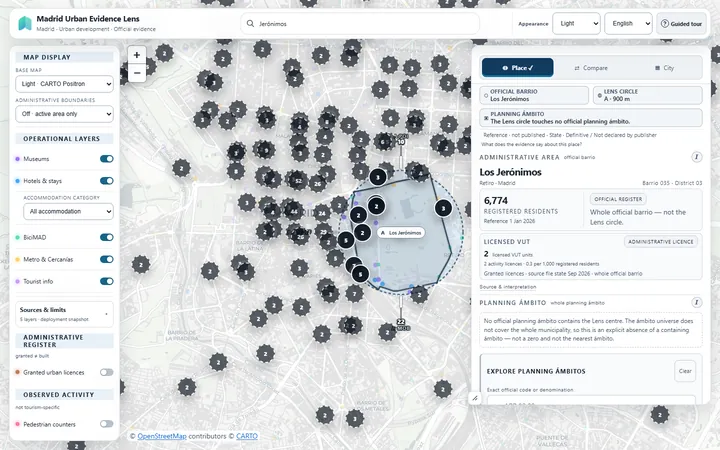
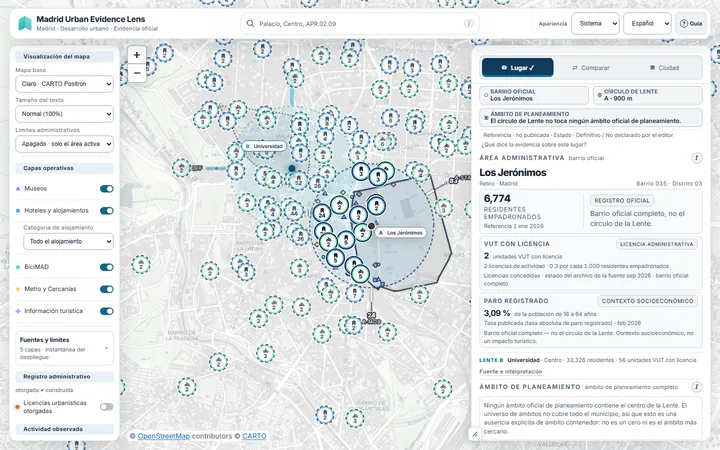
Discover V3: recapture current map, remove white gap in hero image, add colour layer
Hero, PLACE, COMPARE and CITY images recaptured from the deployed app
(4 Nov 2026, CARTO Positron, Spanish UI); hero crop lies fully inside the
map canvas. Captions, dates and aperture ring updated; SOURCES.md records
the new provenance. Colour layer: gradients, tinted sections, coloured plate
frames; gradient buttons keep a solid background-color for contrast checks.

diff --git a/discover/index.html b/discover/index.html
@@ -17,6 +17,7 @@
       color-scheme:light;
       --paper:#f4f1ea;--paper-deep:#ebe6da;--card:#fbfaf6;
       --ink:#16191e;--ink-soft:#4b5058;--rule:#d3ccbd;--rule-strong:#16191e;
+      --teal:#14b8a0;--sky:#2f9bd0;--sun:#f4b942;--coral:#e8573a;--teal-soft:#c9f0e6;--sky-soft:#d3e9f6;--sun-soft:#fbe8bd;
       --brick:#a8391f;--brick-hover:#8e2e17;--brick-bright:#f08a67;
       --lens-a:#123b5f;--lens-b:#00718f;
       --night:#15181d;--night-text:#ece6d8;--night-soft:#aaa498;--night-rule:#383c43;
@@ -92,10 +93,10 @@
     .plate-frame:after{bottom:-8px;right:-8px;border-width:0 1px 1px 0}
     .plate-media{position:relative;overflow:hidden;background:var(--paper-deep)}
     .plate-media img{width:100%}
-    .plate figcaption,.plate-caption{margin-top:12px;color:var(--ink-soft);line-height:1.55}
+    .plate figcaption,.plate-caption{margin-top:28px;color:var(--ink-soft);line-height:1.55}
     .plate figcaption b,.plate-caption b{color:var(--ink);font-weight:600}
     .plate-link{display:inline-block;margin-top:6px;color:var(--ink);text-underline-offset:4px}
-    .hero-plate .plate-media{--ax:70.4%;--ay:36.7%}
+    .hero-plate .plate-media{--ax:71.9%;--ay:32.2%}
     .aperture-ring{position:absolute;left:var(--ax);top:var(--ay);width:36%;aspect-ratio:1;border:2px solid var(--brick);border-radius:50%;transform:translate(-50%,-50%) scale(0);opacity:0;pointer-events:none}
 
     /* ---------- Section heads ---------- */
@@ -157,6 +158,37 @@
     .footer-grid p{margin:0}
     .footer-links{display:flex;flex-direction:column;gap:6px;align-items:flex-start}
     .footer-links a{text-underline-offset:4px}
+
+
+    /* ---------- Colour layer: the logo's teal-to-sky gradient, the lens blues and a warm sun ---------- */
+    body{background:linear-gradient(180deg,var(--paper) 0,#f7f3e8 40%,var(--paper) 100%)}
+    .masthead{border-image:linear-gradient(90deg,var(--teal),var(--sky),var(--sun),var(--coral)) 1;border-bottom-width:2px}
+    .hero{background:radial-gradient(60% 70% at 88% 8%,rgb(20 184 160 / .22),transparent 70%),radial-gradient(48% 60% at 6% 96%,rgb(244 185 66 / .28),transparent 70%),radial-gradient(40% 50% at 62% 100%,rgb(47 155 208 / .16),transparent 70%)}
+    .hero:before{border:1.5px dashed rgb(20 184 160 / .55)}
+    .hero h1 .accent{background:linear-gradient(95deg,var(--brick) 5%,var(--coral) 55%,#f0933d 100%);-webkit-background-clip:text;background-clip:text;color:transparent;-webkit-text-fill-color:transparent}
+    .kicker{color:#0b7d6d}.kicker:before{height:2px;background:linear-gradient(90deg,var(--teal),var(--sky))}
+    .btn-primary{background-color:var(--brick);background-image:linear-gradient(135deg,var(--brick),var(--coral));box-shadow:0 8px 22px -8px rgb(232 87 58 / .65)}
+    .btn-primary:hover{background-color:var(--brick-hover);background-image:linear-gradient(135deg,var(--brick-hover),var(--brick));box-shadow:0 10px 26px -8px rgb(232 87 58 / .8)}
+    .hero-proof{border-top:2px solid transparent;border-image:linear-gradient(90deg,var(--teal),var(--sky) 40%,transparent) 1}
+    .plate-frame{border-color:var(--ink);box-shadow:12px 12px 0 var(--teal-soft),12px 12px 0 1px rgb(20 184 160 / .55)}
+    .hero-plate .plate-frame{box-shadow:14px 14px 0 var(--sun-soft),14px 14px 0 1px rgb(244 185 66 / .8)}
+    .plate-frame:before,.plate-frame:after{border-color:var(--brick);width:18px;height:18px;border-width:2px}
+    .plate-frame:before{border-width:2px 0 0 2px}.plate-frame:after{border-width:0 2px 2px 0}
+    .modes{background:linear-gradient(180deg,rgb(211 233 246 / .55),rgb(201 240 230 / .35) 55%,transparent);border-top:0}
+    .tab[aria-selected="true"]{background:linear-gradient(90deg,rgb(255 255 255 / .75),transparent)}
+    .tab:before{width:4px;background:linear-gradient(180deg,var(--teal),var(--sky))}
+    .tab:nth-child(1)[aria-selected="true"] .tab-code{color:#0b7d6d}.tab:nth-child(2)[aria-selected="true"] .tab-code{color:#1b72a8}.tab:nth-child(3)[aria-selected="true"] .tab-code{color:#b57a0b}
+    .legend li:before{background:linear-gradient(135deg,var(--teal),var(--sky))}
+    .legend li{border-top:2px solid var(--teal-soft)}
+    .marker{background:linear-gradient(135deg,var(--brick),var(--coral))}
+    .night{background:radial-gradient(60% 55% at 12% 0,rgb(20 184 160 / .22),transparent 70%),radial-gradient(50% 60% at 100% 35%,rgb(47 155 208 / .20),transparent 70%),radial-gradient(45% 45% at 80% 100%,rgb(232 87 58 / .18),transparent 70%),#10161c}
+    .keys dt{color:#5fe0c8}.keys div:nth-child(2) dt{color:#7cc4ee}.keys div:nth-child(3) dt{color:#f6c768}.keys div:nth-child(4) dt{color:#f59a7d}
+    .night .plate-frame{box-shadow:10px 10px 0 rgb(20 184 160 / .28)}
+    .night .plate-frame:before,.night .plate-frame:after{border-color:var(--sun)}
+    .closing h2{color:#c4f5e9}
+    footer{background:linear-gradient(180deg,var(--sun-soft),var(--paper) 70%);border-top:0}
+    @media (max-width:720px){.plate-frame,.hero-plate .plate-frame{box-shadow:6px 6px 0 var(--teal-soft)}}
+    @media (prefers-reduced-motion:reduce){.btn-primary{transition:none}}
 
     /* ---------- Motion (CSS only; every animation ends in the static layout) ---------- */
     @keyframes rise{from{transform:translateY(105%)}to{transform:none}}
@@ -252,7 +284,7 @@
             <span class="aperture-ring" aria-hidden="true"></span>
           </div>
         </div>
-        <figcaption class="mono"><b data-i18n="heroPlateTitle">Lámina 1 · COMPARE.</b> <span data-i18n="heroPlateText">Detalle de una captura real: lente A en Los Jerónimos (900 m), lente B en Imperial (500 m). 1 nov 2026 · Mapa base © OpenStreetMap · © CARTO.</span><br><a class="plate-link" href="../?v=1&amp;s=20261029-m3-dossier-v1&amp;m=COMPARE&amp;a=40.41490%2C-3.69000%2C900&amp;b=40.40520%2C-3.72119%2C500&amp;be=1&amp;al=B&amp;ly=museum.info.stay.bike.rail&amp;om=2026-07&amp;sc=LENS&amp;rd=citizen&amp;lg=es" data-reading-link><span data-i18n="heroPlateLink">Abrir esta misma lectura en Lens</span> ↗</a></figcaption>
+        <figcaption class="mono"><b data-i18n="heroPlateTitle">Lámina 1 · COMPARE.</b> <span data-i18n="heroPlateText">Detalle de una captura real: lente A en Los Jerónimos (900 m), lente B en Imperial (500 m). 4 nov 2026 · Mapa base © OpenStreetMap · © CARTO.</span><br><a class="plate-link" href="../?v=1&amp;s=20261029-m3-dossier-v1&amp;m=COMPARE&amp;a=40.41490%2C-3.69000%2C900&amp;b=40.40520%2C-3.72119%2C500&amp;be=1&amp;al=B&amp;ly=museum.info.stay.bike.rail&amp;om=2026-07&amp;sc=LENS&amp;rd=citizen&amp;lg=es" data-reading-link><span data-i18n="heroPlateLink">Abrir esta misma lectura en Lens</span> ↗</a></figcaption>
       </figure>
     </div>
   </section>
@@ -287,7 +319,7 @@
                 <li data-i18n="placeKey2">Barrio oficial, círculo y ámbito de planeamiento se nombran por separado.</li>
                 <li data-i18n="placeKey3">Las cifras muestran su registro oficial y su fecha de referencia.</li>
               </ol>
-              <figcaption class="mono" data-i18n="placeCaption">Captura real · PLACE · Los Jerónimos · 1 nov 2026 · interfaz en inglés</figcaption>
+              <figcaption class="mono" data-i18n="placeCaption">Captura real · PLACE · Los Jerónimos · 4 nov 2026 · interfaz en español</figcaption>
             </figure>
           </div>
           <div class="panel" role="tabpanel" id="panel-compare" aria-labelledby="tab-compare" data-panel="compare">
@@ -304,7 +336,7 @@
                 <li data-i18n="compareKey2">Compara círculos Lens o ámbitos de planeamiento, nunca una mezcla.</li>
                 <li data-i18n="compareKey3">Contrastes observados, sin orden ni recomendación; la movilidad se retiene porque las ventanas difieren.</li>
               </ol>
-              <figcaption class="mono" data-i18n="compareCaption">Captura real · COMPARE · 1 nov 2026 · interfaz en inglés</figcaption>
+              <figcaption class="mono" data-i18n="compareCaption">Captura real · COMPARE · 4 nov 2026 · interfaz en español</figcaption>
             </figure>
           </div>
           <div class="panel" role="tabpanel" id="panel-city" aria-labelledby="tab-city" data-panel="city">
@@ -321,7 +353,7 @@
                 <li data-i18n="cityKey2">Estadística oficial con su mes de referencia y su estado provisional.</li>
                 <li data-i18n="cityKey3">Indica lo que no cubre: solo establecimientos hoteleros, no todo el turismo.</li>
               </ol>
-              <figcaption class="mono" data-i18n="cityCaption">Captura real · CITY · 21 oct 2026 · interfaz en español</figcaption>
+              <figcaption class="mono" data-i18n="cityCaption">Captura real · CITY · 4 nov 2026 · interfaz en español</figcaption>
             </figure>
           </div>
         </div>
@@ -388,7 +420,7 @@
     explore:'Explore Lens', seeModes:'See what you can do',
     heroProof:'Official public data · Sources and dates you can inspect · Descriptive, not causal',
     heroAlt:'Detail of a real Lens capture in COMPARE mode: two analysis circles over central Madrid, Lens A in Los Jerónimos and Lens B in Imperial.',
-    heroPlateTitle:'Plate 1 · COMPARE.', heroPlateText:'Detail of a real capture: Lens A in Los Jerónimos (900 m), Lens B in Imperial (500 m). 1 Nov 2026 · Base map © OpenStreetMap · © CARTO.',
+    heroPlateTitle:'Plate 1 · COMPARE.', heroPlateText:'Detail of a real capture: Lens A in Los Jerónimos (900 m), Lens B in Imperial (500 m). 4 Nov 2026 · Base map © OpenStreetMap · © CARTO.',
     heroPlateLink:'Open this exact reading in Lens',
     modesKicker:'01 · What you can do', modesTitle:'Three ways to read the city.',
     modesIntro:'Each mode changes the question, not the rules. Every view is a real capture of the application.', modesLabel:'Lens modes',
@@ -397,13 +429,13 @@
     cityTitle:'Read the Madrid context', cityDesc:'Municipality-wide statistics with their reference month and status, never projected onto a street or your circle.',
     placeAlt:'Real Lens capture in PLACE mode: a 900-metre circle in Los Jerónimos and a panel with the official barrio, registered residents and licensed tourist dwellings.',
     placeKey1:'A Lens circle with an explicit radius (here, 900 m).', placeKey2:'Official barrio, circle and planning area are named separately.', placeKey3:'Figures show their official register and reference date.',
-    placeCaption:'Real capture · PLACE · Los Jerónimos · 1 Nov 2026 · English interface',
+    placeCaption:'Real capture · PLACE · Los Jerónimos · 4 Nov 2026 · Spanish interface',
     compareAlt:'Real Lens capture in COMPARE mode: a 900-metre Lens A in Los Jerónimos, a 500-metre Lens B in Imperial and a panel of observed contrasts.',
     compareKey1:'Two explicit windows: A at 900 m, B at 500 m.', compareKey2:'Compare Lens circles or planning areas — never a mix.', compareKey3:'Observed contrasts with no ranking or recommendation; mobility is withheld because the windows differ.',
-    compareCaption:'Real capture · COMPARE · 1 Nov 2026 · English interface',
+    compareCaption:'Real capture · COMPARE · 4 Nov 2026 · Spanish interface',
     cityAlt:'Real Lens capture in CITY mode, Spanish interface: Madrid municipality context with August 2026 travellers and overnight stays, marked provisional.',
     cityKey1:'Explicit scope: the whole municipality of Madrid.', cityKey2:'Official statistics with their reference month and provisional status.', cityKey3:'States what it does not cover: hotel establishments only, not all tourism.',
-    cityCaption:'Real capture · CITY · 21 Oct 2026 · Spanish interface',
+    cityCaption:'Real capture · CITY · 4 Nov 2026 · Spanish interface',
     evidenceKicker:'02 · Evidence & limits', evidenceTitle:'What we know, where it comes from, and where it ends.',
     keySourceTerm:'Source', keySource:'Every reading points to its publisher, its reference date and its status, definitive or provisional. It is not a real-time monitor.',
     keyScaleTerm:'Scale', keyScale:'Barrio, planning area and Lens circle are different units; Lens never swaps one for another.',

diff --git a/discover/media/SOURCES.md b/discover/media/SOURCES.md
@@ -1,15 +1,20 @@
 # Discover media provenance
 
-Every image here is a lossy WebP crop or downscale of an authentic, unmodified
-Lens capture already committed to this repository. No pixel content was added.
+The hero, PLACE, COMPARE and CITY images are lossy WebP crops or downscales of
+authentic, unmodified captures of the deployed Lens (Playwright Chromium, 1440×900,
+light, `lg=es`, CARTO Positron base map, 4 Nov 2026), taken at
+`https://soroushkarahrodi79-oss.github.io/madrid-tourism-intelligence-lens/` with
+the state `m=PLACE|COMPARE|CITY`, `a=40.41490,-3.69000,900`, `b=40.40520,-3.72119,500`.
+The refusal and limits details remain crops of the committed `docs/showcase` captures
+(1 Nov 2026). No pixel content was added.
 Values visible in a capture belong to its capture date and build.
 
 | File | Source capture | Operation (source pixels) |
 |---|---|---|
-| `hero-compare-detail.webp` | `docs/showcase/lens-02-compare.webp` (1 Nov 2026, see `docs/showcase/capture-manifest.json`) | crop 250,250 → 950,800 |
-| `place-1200.webp`, `place-720.webp` | `docs/showcase/lens-01-place.webp` (1 Nov 2026) | full frame, resized |
-| `compare-1200.webp`, `compare-720.webp` | `docs/showcase/lens-02-compare.webp` (1 Nov 2026) | full frame, resized |
-| `city-1200.webp`, `city-720.webp` | `research/ux_t1_appearance/screenshots/05-city-light-es.png` (21 Oct 2026, see that folder's `manifest.json`) | full frame, resized |
+| `hero-compare-detail.webp` | Fresh capture of the deployed application, COMPARE (4 Nov 2026, see below) | crop 240,275 → 940,825, fully inside the map canvas (no panel or margin pixels) |
+| `place-1200.webp`, `place-720.webp` | Fresh capture, PLACE (4 Nov 2026) | full 1440×900 frame, resized |
+| `compare-1200.webp`, `compare-720.webp` | Fresh capture, COMPARE (4 Nov 2026) | full 1440×900 frame, resized |
+| `city-1200.webp`, `city-720.webp` | Fresh capture, CITY (4 Nov 2026) | full 1440×900 frame, resized |
 | `refusal-detail.webp` | `docs/showcase/lens-03a-refusal.webp` (1 Nov 2026) | crop 480,312 → 928,578 |
 | `limits-detail.webp` | `docs/showcase/lens-03b-evidence-limits.webp` (1 Nov 2026) | crop 960,96 → 1411,620 |
 
